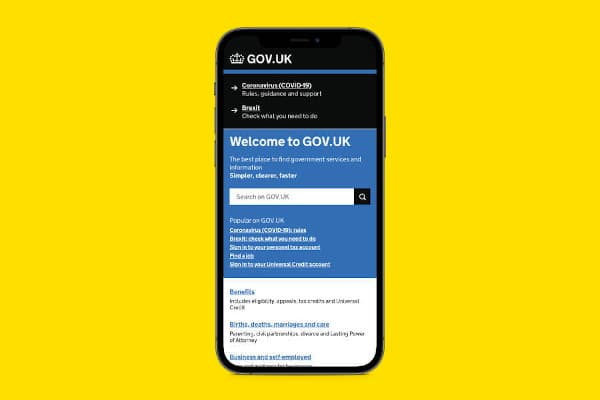
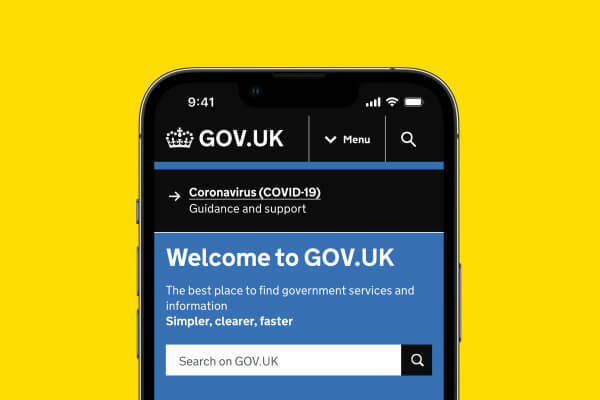
Layout changes for roadmap January 2022
- restructures the 'in numbers' section, specifically:
- removes the crown icon
- removes the share links
- moves the footnote to directly below the heading and removes the asterisks
- reduce font size for last updated text and reduce margin above it
- update image, new image is similar but more zoomed in
- make roadmap image the full width of its containing column
- make big numbers at the bottom of the page left-aligned
- remove some unneeded css (no longer needed as the crown logo has been
  removed)

diff --git a/app/assets/stylesheets/application.scss b/app/assets/stylesheets/application.scss
@@ -124,6 +124,7 @@ $govuk-new-link-styles: true;
 .govuk-roadmap-section {
   border-bottom: 5px solid govuk-colour('black');
   margin-bottom: govuk-spacing(6);
+  padding-bottom: govuk-spacing(6);
 }
 
 .govuk-roadmap-section__image {
@@ -131,22 +132,8 @@ $govuk-new-link-styles: true;
   margin: 0 auto;
 }
 
-.govuk-roadmap-numbers {
-  @include govuk-media-query($from: tablet) {
-    text-align: center;
-  }
-}
-
 .govuk-roadmap-numbers__column {
   @include govuk-media-query($until: desktop) {
     width: 50%;
-  }
-}
-
-.govuk-roadmap-numbers__column--crown {
-  display: none;
-
-  @include govuk-media-query($from: desktop) {
-    display: inline;
   }
 }
